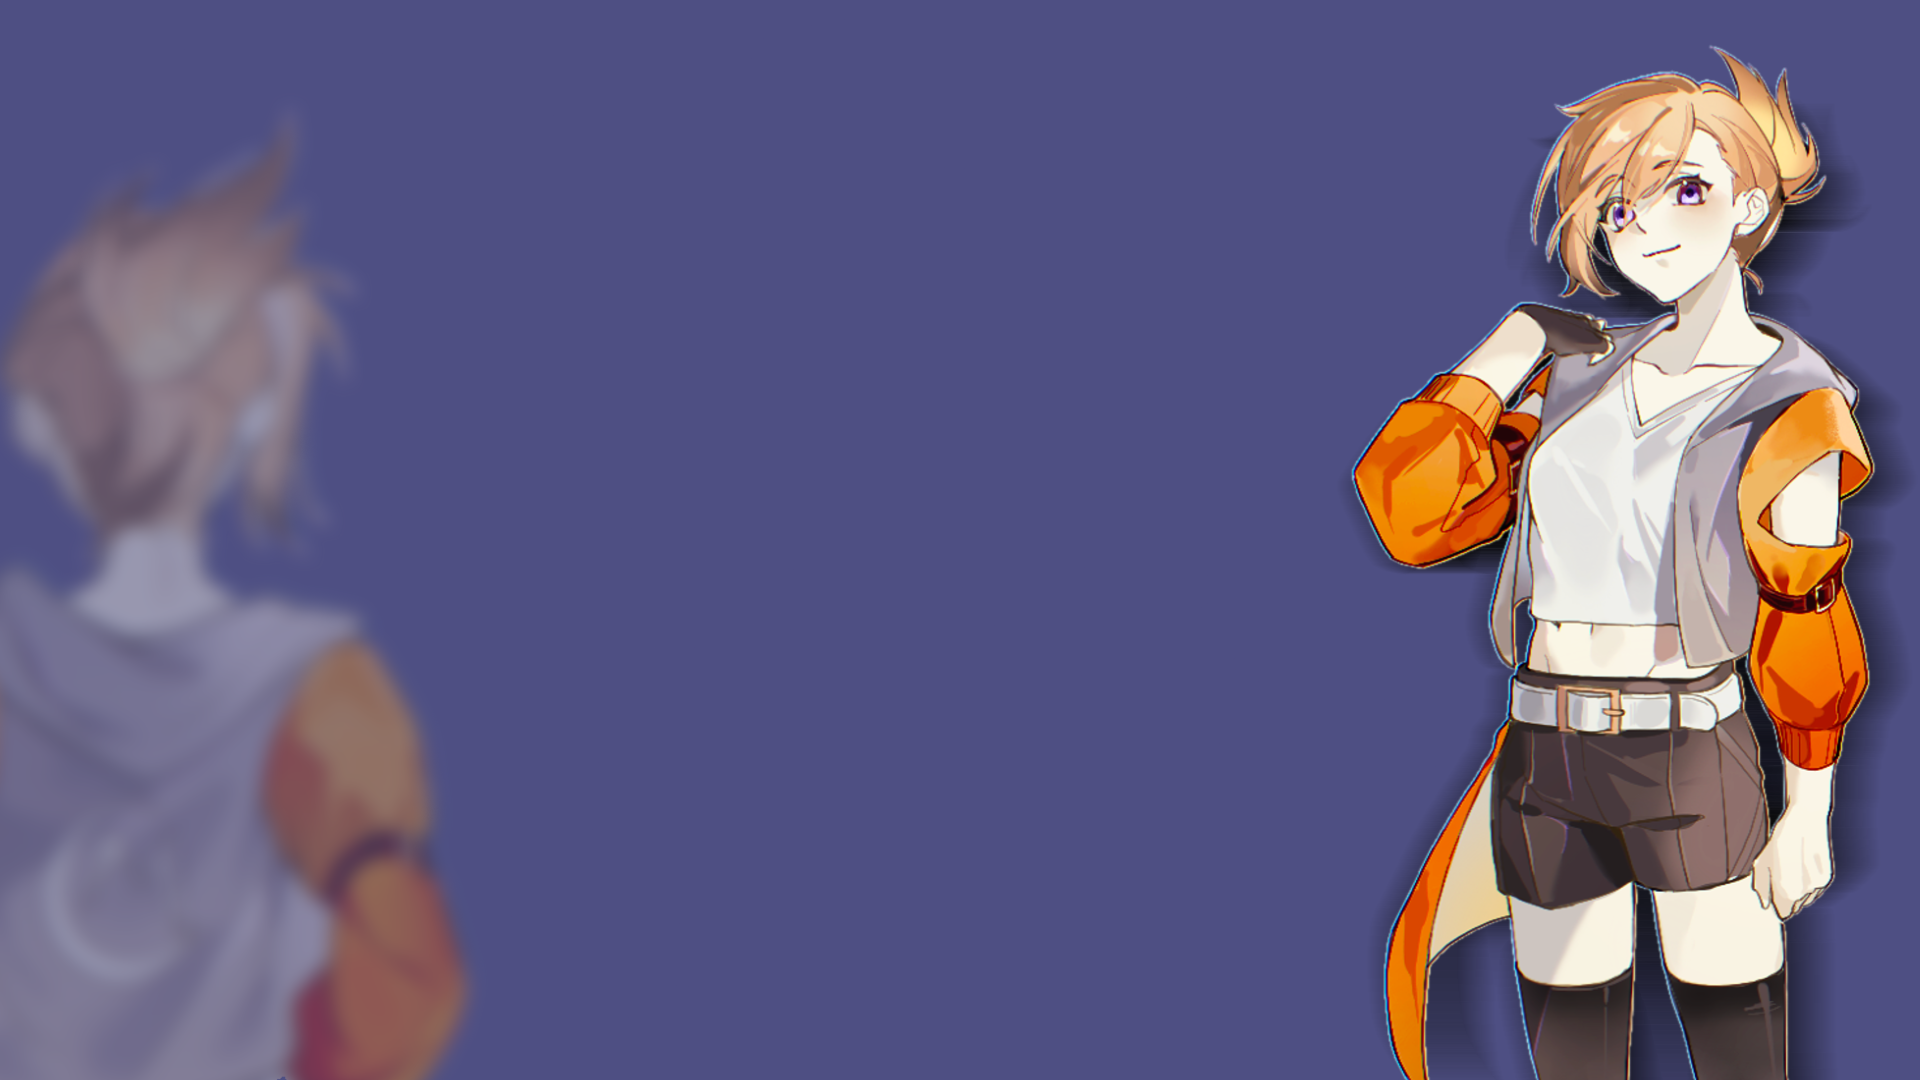
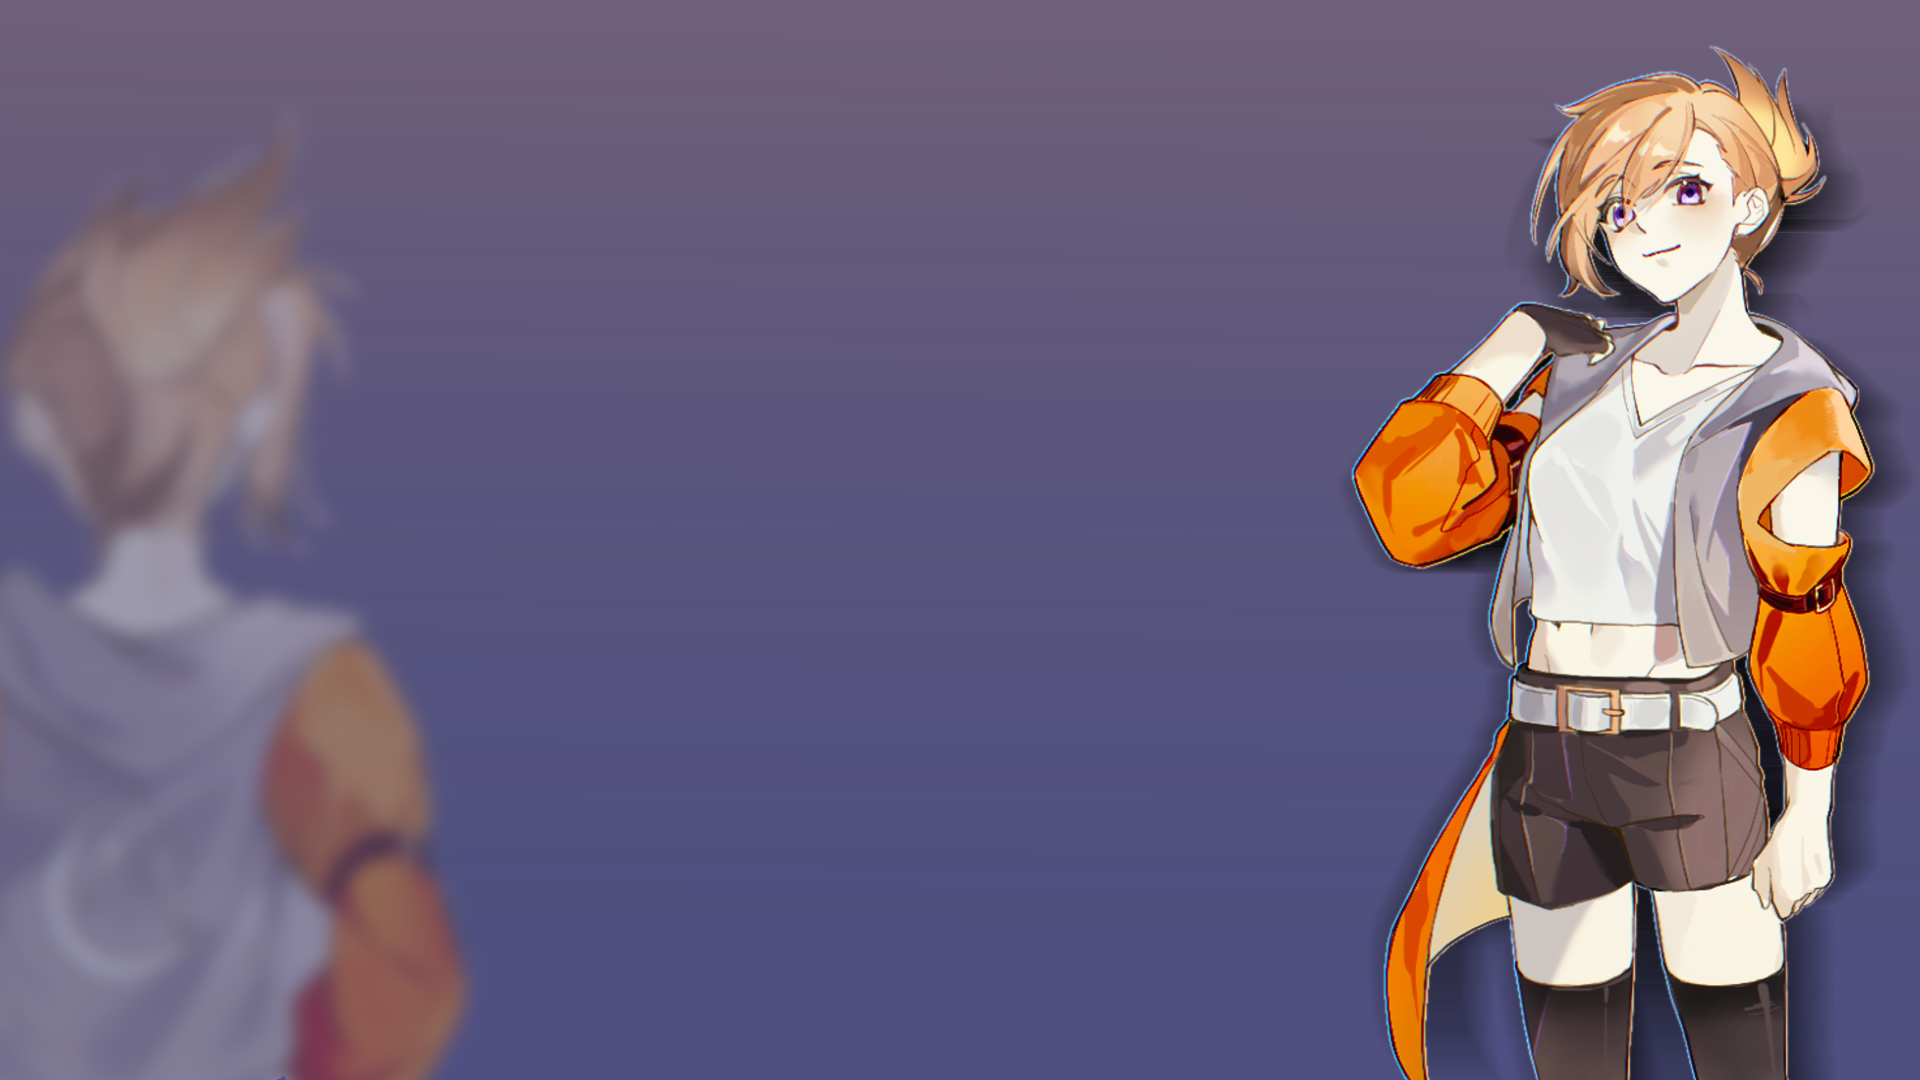
updated background into individual scaling parts instead of static background (testing)

Changed region(s): [[0.0, 0.0, 1.0, 0.1833]]

diff --git a/style.css b/style.css
@@ -11,10 +11,9 @@ body {
   display: flex;
   justify-content: center;
   align-items: center;
-  height: 100vh;
   font-family: Geologica, sans-serif;
   position: relative;
-  background: url('./images/MACtreeBG.png') no-repeat center center;
+  background: url('./images/MAC_BG_Empty.png') no-repeat center center;
   background-size: cover;
   
   background-color: #4e4e82;
@@ -28,14 +27,14 @@ body::before {
   width: 100%;
   height: auto;
   filter: blur(10px);     
-  z-index: -1; 
+  z-index: -3; 
 }
 
 .container {
   text-align: center;
   width: 90%;
   max-width: 400px;
-  z-index: 1;
+  z-index: 2;
 }
 
 .avatar {
@@ -90,3 +89,35 @@ right: 2vw;
 filter: blur(0px);  
 }
 
+#charFront {
+  position: fixed;
+  width: 25%;
+  height: auto;
+  bottom: 0px;
+  right: 50px;
+  transform: translateY(35%);
+  filter:drop-shadow(0 5px 20px rgba(0,0,0,0.5))
+}
+
+@media (max-width: 768px) {
+  body {
+    display: block;
+    padding: 20px;
+  }
+
+  .container {
+    margin: 0 auto;
+    text-align: center;
+    z-index: 2;
+  }
+}
+
+#charBack {
+  position: fixed;
+  width: 40%;
+  height: auto;
+  bottom: 0px;
+  right: 50px;
+  transform: translateX(-175%)translateY(65%);
+  filter: blur(10px) drop-shadow(0 5px 20px rgba(0,0,0,0.5));
+}

diff --git a/index.html b/index.html
@@ -34,5 +34,8 @@
     });
   </script>
     
+  <img src="images/MACscot-Front.png" alt="charFront" id="charFront">
+
+  <img src="images/MACscot-Back.png" alt="charBack" id="charBack">
 </body>
 </html>
